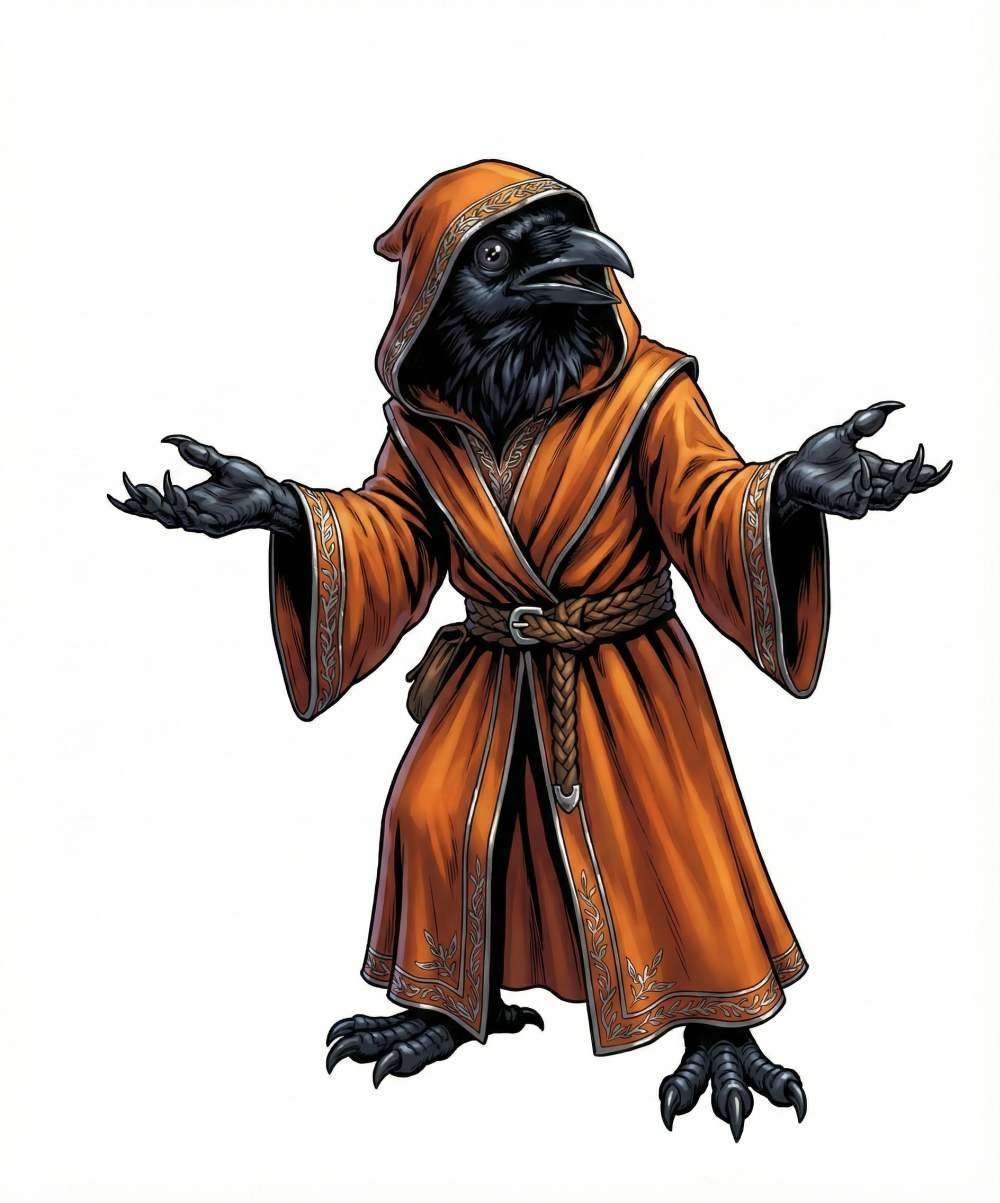
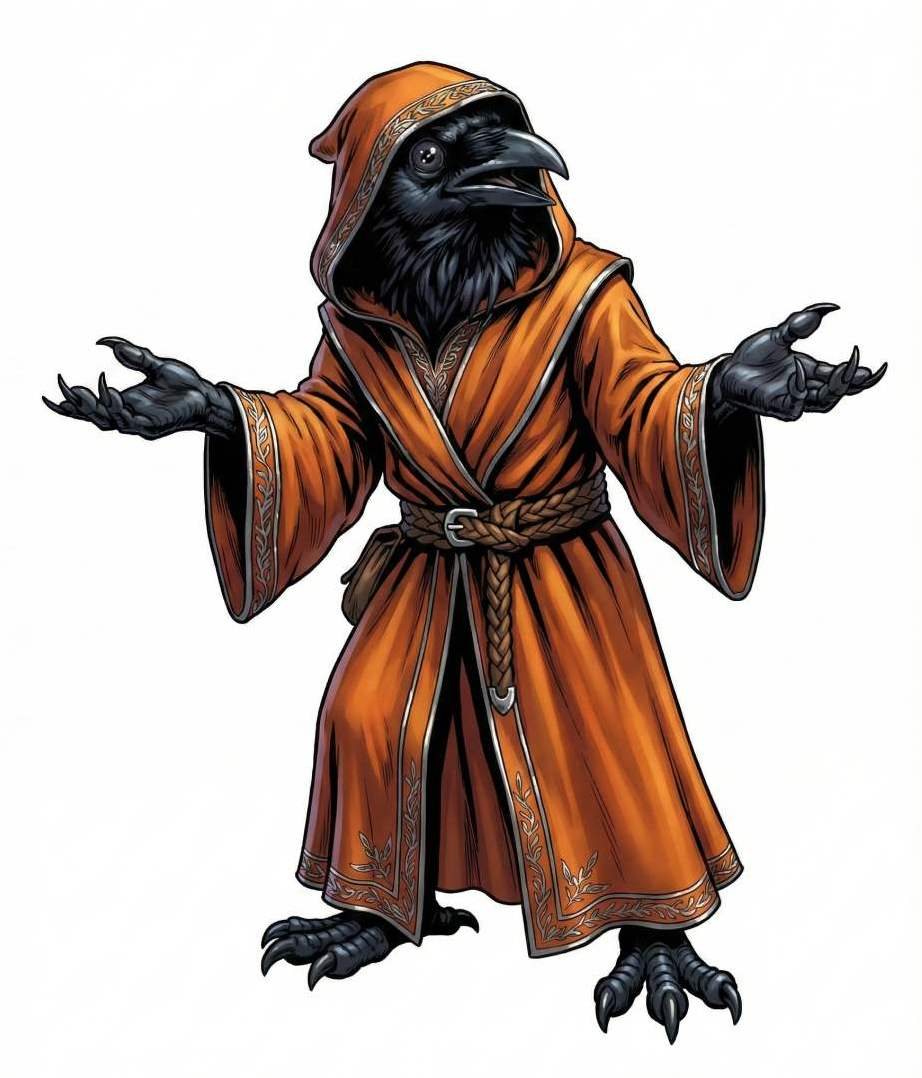
Checkpoint: Replaced character images for Vailrae, Sylwen Sunweave, and Fuzzlewax with new client-provided artwork. Renamed Barlow to "Barlow The Abundant". Fixed FAQ question titles to display in normal mixed case using bold Georgia serif font, clearly distinct from the Inter body text answers (byp

diff --git a/client/src/pages/FAQ.tsx b/client/src/pages/FAQ.tsx
@@ -71,10 +71,10 @@ export default function FAQ() {
         <div className="max-w-4xl space-y-8">
           {faqs.map((faq, index) => (
             <div key={index} className="bg-card border-2 border-border p-8 hover:border-primary transition-colors">
-              <h2 className="text-2xl font-display mb-4 text-foreground">
+              <div className="mb-4 text-foreground" style={{fontFamily: 'Georgia, "Times New Roman", serif', fontWeight: 700, fontSize: '1.15rem', textTransform: 'none', letterSpacing: '0.01em', lineHeight: '1.4'}}>
                 {faq.question}
-              </h2>
-              <p className="text-lg font-body text-foreground/90 leading-relaxed">
+              </div>
+              <p className="text-base font-body text-foreground/80 leading-relaxed">
                 {faq.answer}
               </p>
             </div>

diff --git a/client/src/data/characters.ts b/client/src/data/characters.ts
@@ -92,7 +92,7 @@ export const characters: Character[] = [
   },
   {
     id: "barlow",
-    name: "Barlow",
+    name: "Barlow The Abundant",
     race: "Human",
     class: "Wizard",
     realm: "Realm of Wodan",
